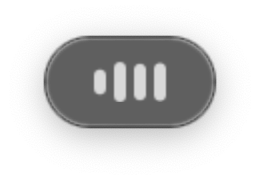
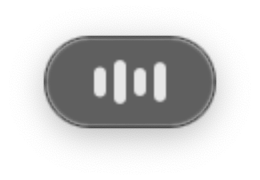
Overlay: static round dots when quiet, full-opacity bars; --light flag and light-theme screenshots

diff --git a/Sources/Speak2Text/Overlay.swift b/Sources/Speak2Text/Overlay.swift
@@ -109,7 +109,6 @@ final class OverlayPanel: NSPanel {
 
 final class WaveState {
     var smooth: Float = 0
-    var quietSince: Date?
 }
 
 struct OverlayView: View {
@@ -136,14 +135,14 @@ struct OverlayView: View {
             // RMS -> 0...1 on a dB scale, then attack/release smoothing
             let raw = model.level
             let db = 20 * log10(max(raw, 1e-5))
-            let target = Float(min(max((db + 52) / 40, 0), 1))
+            var target = Float(min(max((db + 52) / 40, 0), 1))
+            if target <= 0.12 { target = 0 }   // quiet: bars settle back to static round dots
             let k: Float = target > wave.smooth ? 0.45 : 0.12
             wave.smooth += (target - wave.smooth) * k
-            if target > 0.12 { wave.quietSince = nil } else if wave.quietSince == nil { wave.quietSince = date }
+            if wave.smooth < 0.01 { wave.smooth = 0 }
             let smooth = Double(wave.smooth)
-            let quiet = wave.quietSince.map { date.timeIntervalSince($0) > 0.8 } ?? false
-            drawBars(ctx, size, opacity: quiet ? 0.5 : 0.9) { i, shape in
-                if quiet { return 0.14 * shape * (0.5 + 0.5 * sin(t * 2.4 - Double(i) * 0.7)) }
+            drawBars(ctx, size, opacity: 1) { i, shape in
+                if smooth == 0 { return 0 }
                 let wob = 0.6 + 0.4 * abs(sin(t * 6.5 + Double(i) * 1.7) * cos(t * 3.1 + Double(i) * 0.8))
                 return min(1, smooth * 1.6 * shape * wob)
             }
@@ -151,7 +150,7 @@ struct OverlayView: View {
             // a bump runs across the bars
             let n = Double(OverlayController.bars)
             let head = (t * 1.6).truncatingRemainder(dividingBy: 1.0) * (n + 2) - 1
-            drawBars(ctx, size, opacity: 0.9) { i, shape in
+            drawBars(ctx, size, opacity: 1) { i, shape in
                 let d = Double(i) - head
                 return 0.12 + 0.5 * shape * exp(-d * d / 0.8)
             }

diff --git a/Sources/Speak2Text/main.swift b/Sources/Speak2Text/main.swift
@@ -52,6 +52,7 @@ if args.contains("--test-mute-recover") {
 }
 if let i = args.firstIndex(of: "--demo-overlay") {
     let app = NSApplication.shared
+    if args.contains("--light") { app.appearance = NSAppearance(named: .aqua) }
     app.setActivationPolicy(.accessory)
     let d = OverlayDemo(dir: i + 1 < args.count ? args[i + 1] : nil)
     app.delegate = d
@@ -61,6 +62,7 @@ if let i = args.firstIndex(of: "--demo-overlay") {
     dispatchMain()
 } else {
     let app = NSApplication.shared
+    if args.contains("--light") { app.appearance = NSAppearance(named: .aqua) }   // screenshots only
     app.setActivationPolicy(.accessory)
     let d = AppDelegate()
     app.delegate = d
